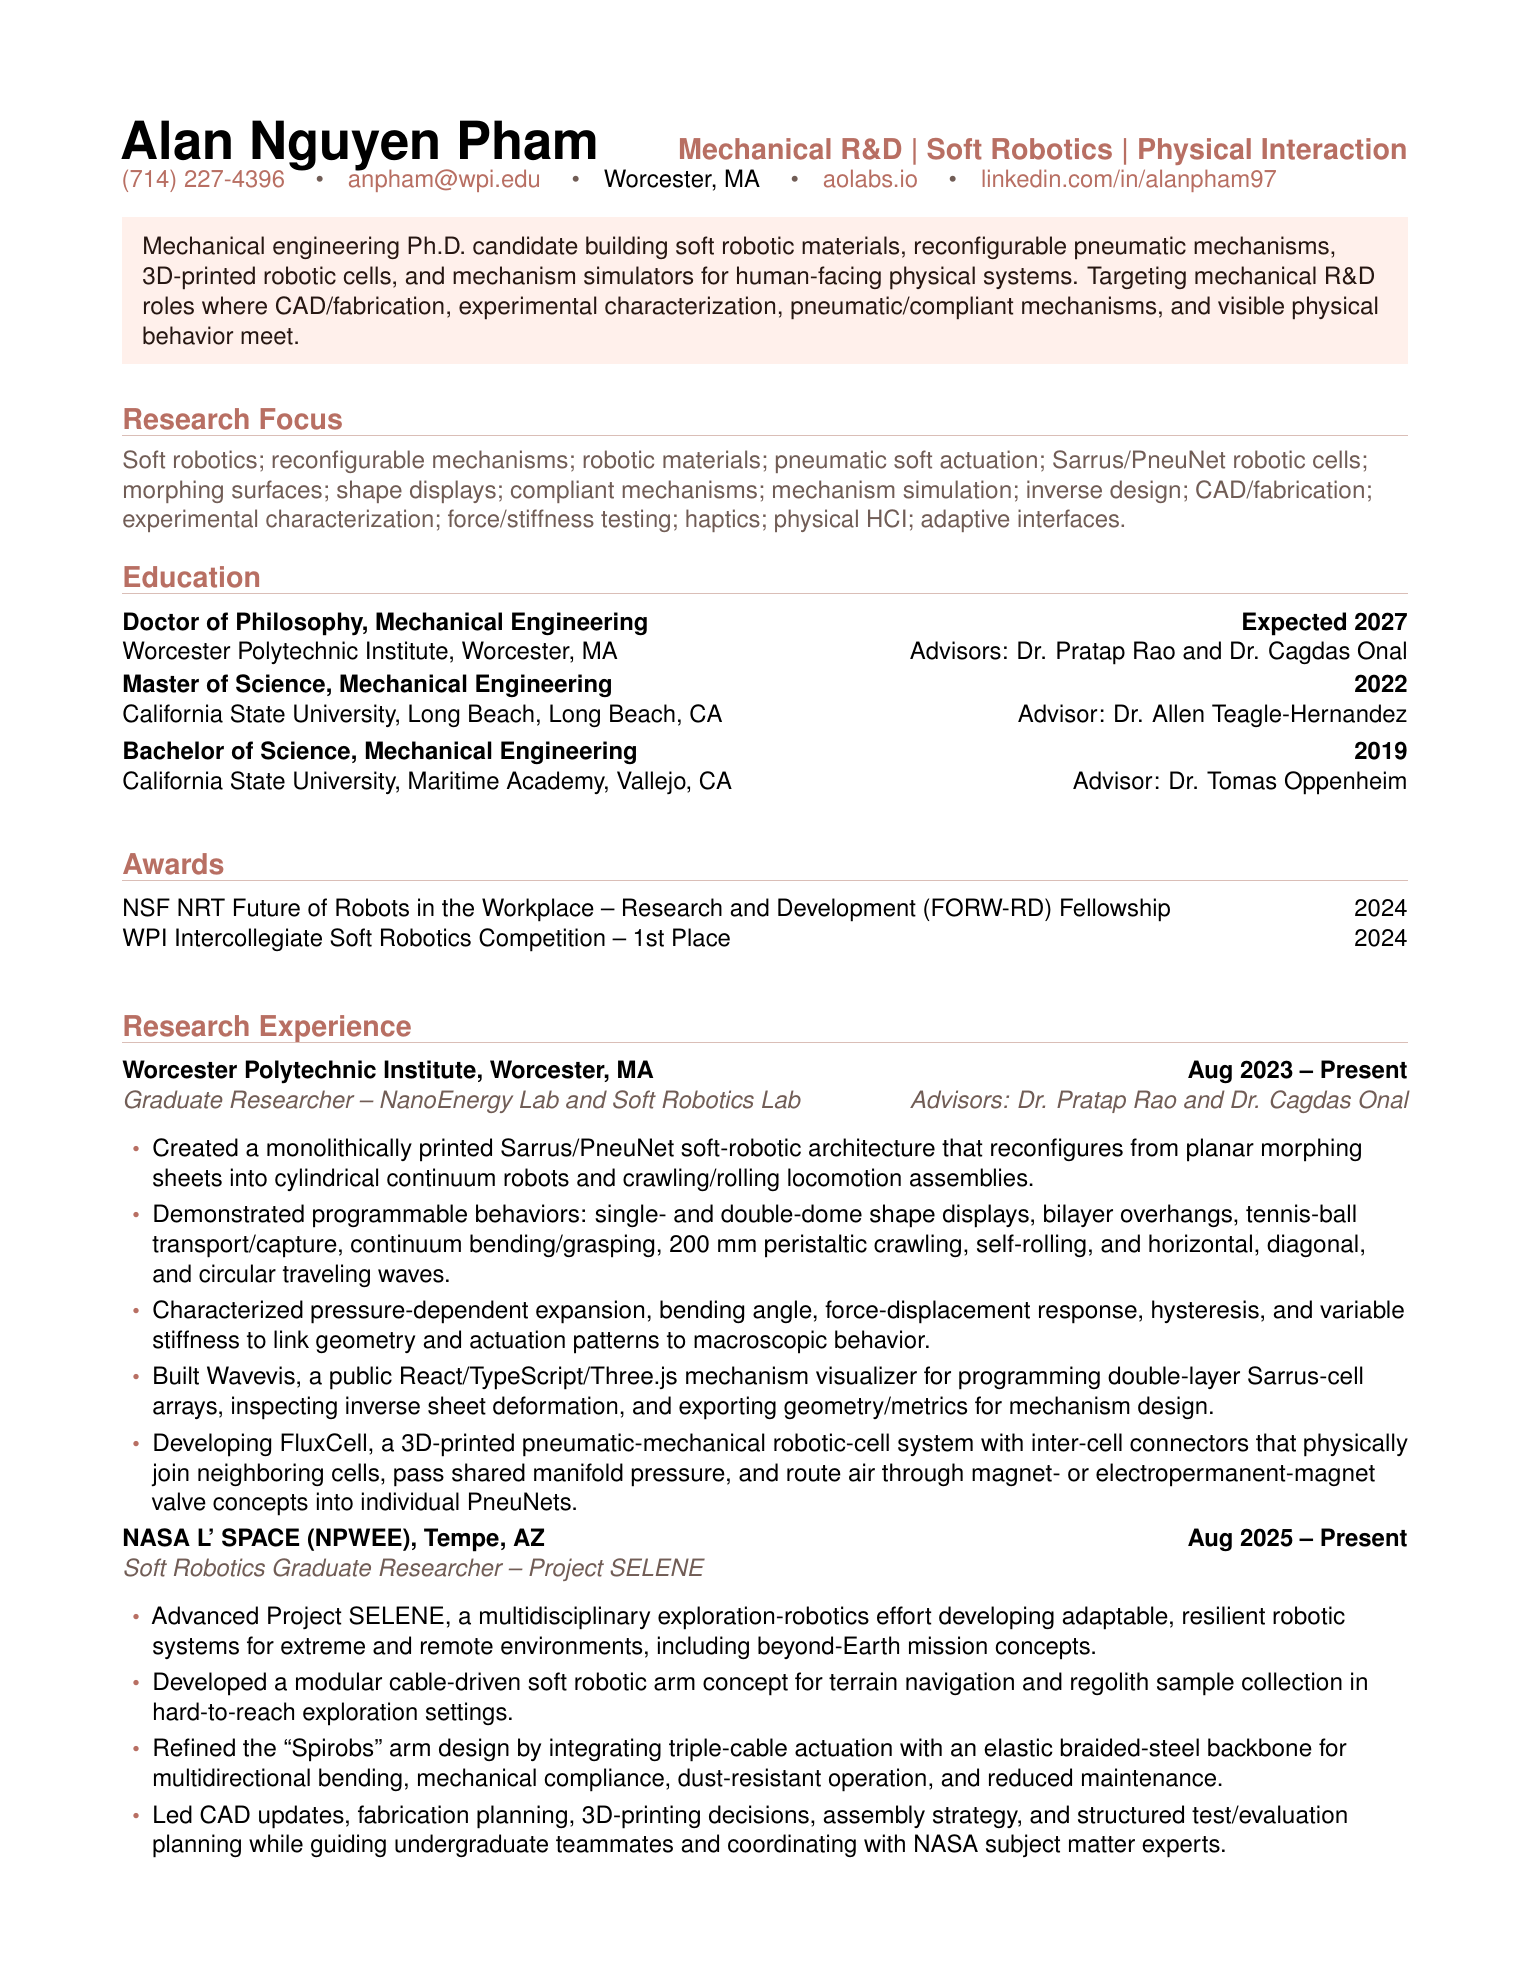
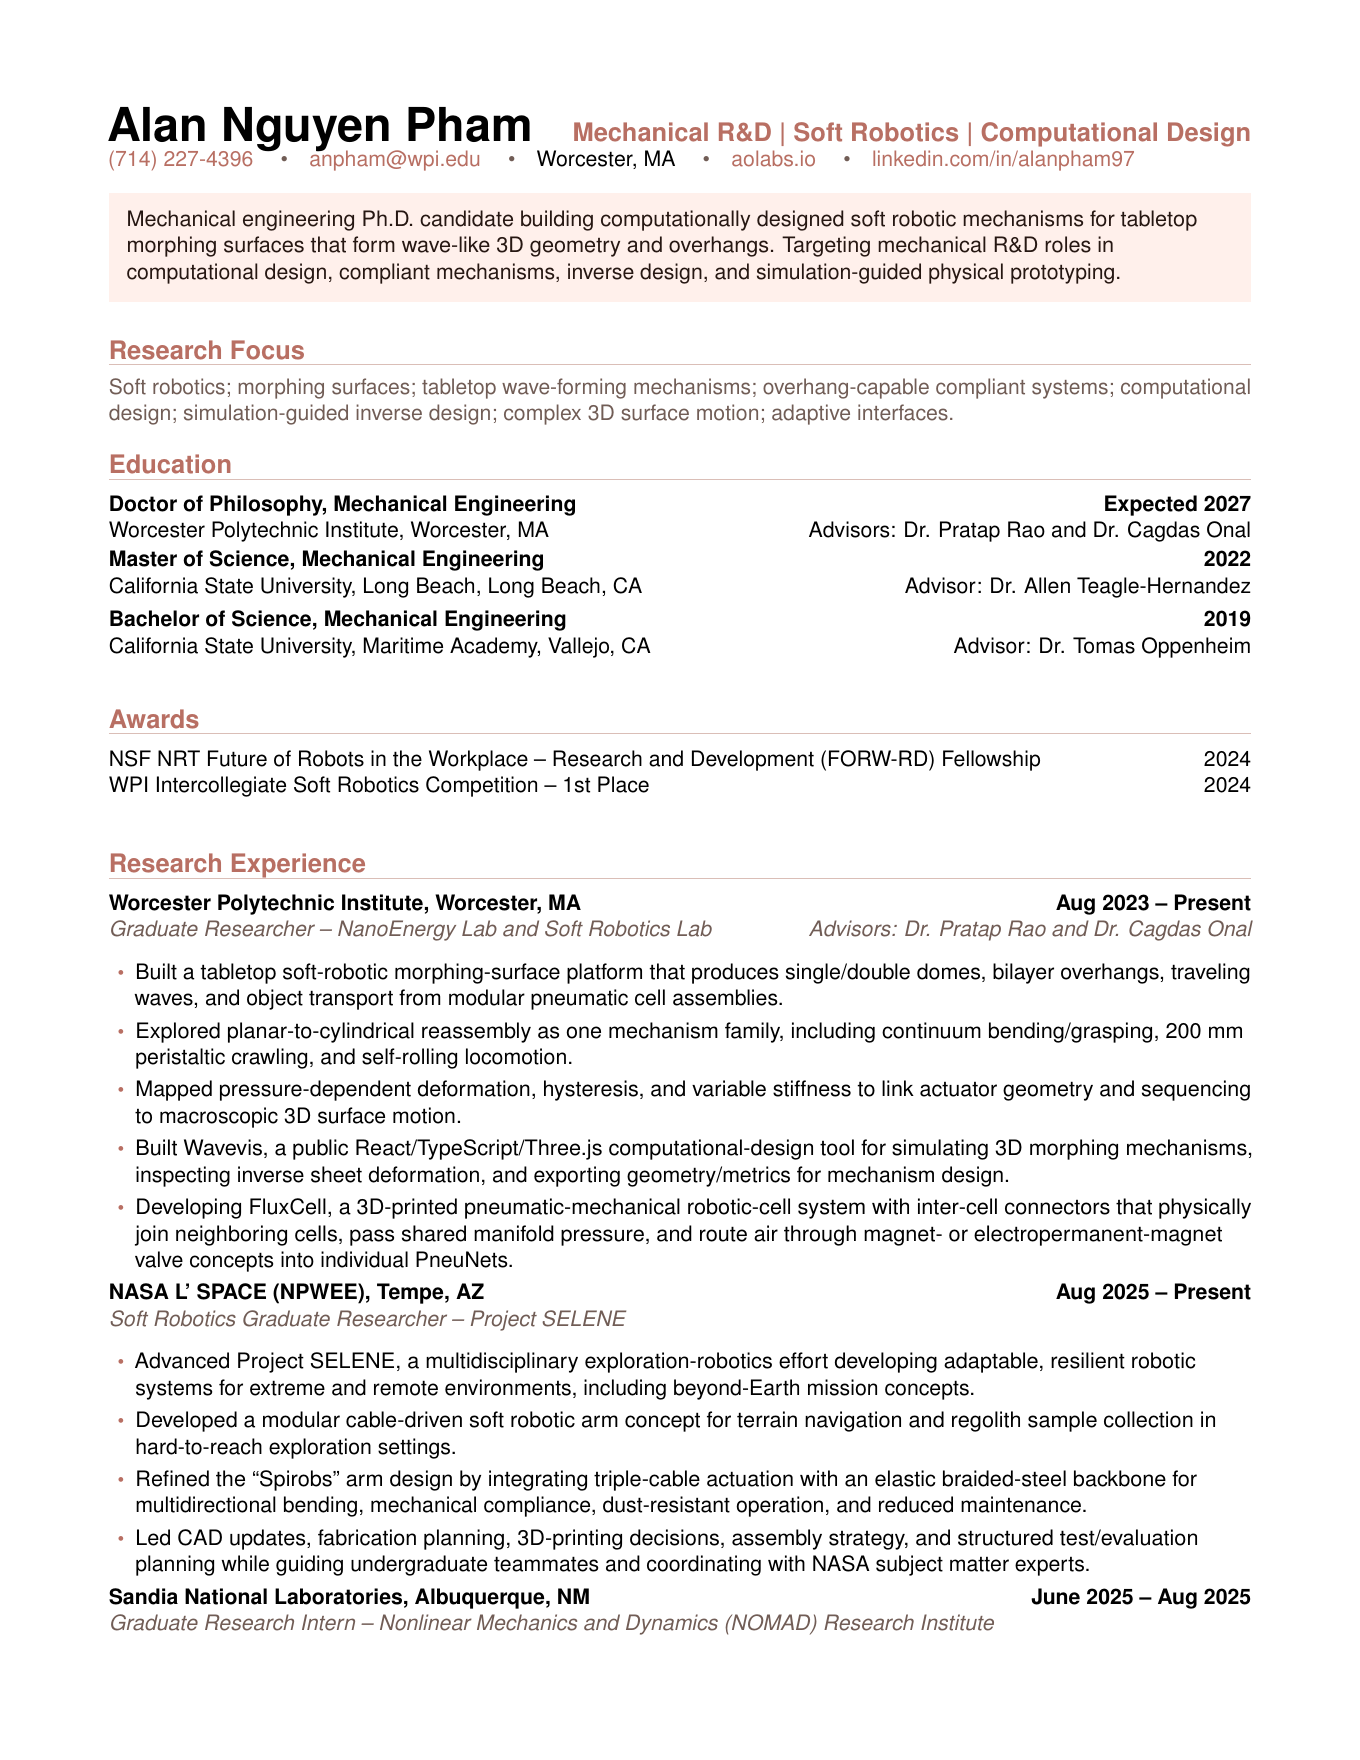
Update CV morphing surface focus

Changed region(s): [[0.0618, 0.0625, 0.9265, 0.9375], [0.0926, 0.0625, 0.3706, 0.0938]]

diff --git a/index.html b/index.html
@@ -4,7 +4,7 @@
   <meta charset="utf-8" />
   <meta name="viewport" content="width=device-width, initial-scale=1" />
   <title>cv.aolabs.io</title>
-  <meta name="description" content="Alan Nguyen Pham's mechanical R&D CV for soft robotics, mechanism simulation, pneumatic-mechanical robotic cells, experimental mechanics, and human-facing physical prototypes.">
+  <meta name="description" content="Alan Nguyen Pham's mechanical R&D CV for soft robotics, computational design, simulation-guided inverse design, compliant mechanisms, and tabletop morphing surfaces.">
   <link rel="canonical" href="https://cv.aolabs.io/" />
   <meta name="twitter:image:alt" content="cv preview card.">
   <meta name="twitter:image" content="https://cv.aolabs.io/og-image-20260506-contained.png">
@@ -17,11 +17,11 @@
   <meta property="og:type" content="website">
   <meta property="og:site_name" content="AO Labs">
   <meta property="og:title" content="cv">
-  <meta property="og:description" content="Mechanical R&D CV for soft robotics, mechanism simulation, pneumatic-mechanical robotic cells, experimental mechanics, and human-facing physical prototypes.">
+  <meta property="og:description" content="Mechanical R&D CV for soft robotics, computational design, simulation-guided inverse design, compliant mechanisms, and tabletop morphing surfaces.">
   <meta property="og:url" content="https://cv.aolabs.io/">
   <meta name="twitter:card" content="summary_large_image">
   <meta name="twitter:title" content="cv">
-  <meta name="twitter:description" content="Mechanical R&D CV for soft robotics, mechanism simulation, pneumatic-mechanical robotic cells, experimental mechanics, and human-facing physical prototypes.">
+  <meta name="twitter:description" content="Mechanical R&D CV for soft robotics, computational design, simulation-guided inverse design, compliant mechanisms, and tabletop morphing surfaces.">
   <link rel="icon" href="https://aolabs.io/icons/cv.svg?v=20260523-tab-icons" type="image/svg+xml">
   <link rel="stylesheet" href="https://aolabs.io/suite-header.css?v=20260516-suite-bloom">
   <link rel="stylesheet" href="/styles.css?v=20260508-homeicon">
@@ -38,17 +38,17 @@
       </a>
     </div>
     <div class="suite-topbar-actions" aria-label="cv actions">
-      <a href="/alan-nguyen-pham-cv.pdf?v=20260605-research-focus">open pdf</a>
+      <a href="/alan-nguyen-pham-cv.pdf?v=20260605-wave-focus">open pdf</a>
     </div>
   </header>
 
   <main class="shell cv-shell">
     <section class="cv-intro" aria-label="cv summary">
-      <p>Mechanical R&amp;D CV for soft robotics, mechanism simulation, pneumatic-mechanical robotic cells, experimental mechanics, and human-facing physical prototypes.</p>
+      <p>Mechanical R&amp;D CV for soft robotics, computational design, simulation-guided inverse design, compliant mechanisms, and tabletop morphing surfaces.</p>
     </section>
     <section class="viewer" aria-label="cv preview">
-      <a class="document-link" href="/alan-nguyen-pham-cv.pdf?v=20260605-research-focus" aria-label="Open Alan Nguyen Pham CV PDF">
-        <img src="/alan-nguyen-pham-cv-page-1.png?v=20260605-research-focus" alt="First page preview of Alan Nguyen Pham's CV.">
+      <a class="document-link" href="/alan-nguyen-pham-cv.pdf?v=20260605-wave-focus" aria-label="Open Alan Nguyen Pham CV PDF">
+        <img src="/alan-nguyen-pham-cv-page-1.png?v=20260605-wave-focus" alt="First page preview of Alan Nguyen Pham's CV.">
       </a>
     </section>
   </main>
